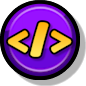
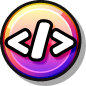
Badges by @ElBrift

diff --git a/README.md b/README.md
@@ -6,7 +6,7 @@ A mod that gives badges to Geode mod developers.
 - Comment coloring based on a user's badges
 
 ## Credits
-- [Krintop](https://gdbrowser.com/u/7242014) - Designer of the mod's textures
+- [Brift](https://gdbrowser.com/u/14114548) - Designer of the mod's textures
 - [hiimjustin000](https://gdbrowser.com/u/7466002) - Creator of the mod
 
 ## Badges

diff --git a/changelog.md b/changelog.md
@@ -1,4 +1,7 @@
 # Developer Badges Changelog
+## v1.0.2 (2024-10-28)
+- Redesigned the developer badges to be more visually appealing
+
 ## v1.0.1 (2024-10-12)
 - Added the ability to customize comment coloring based on a user's badges
 - Fixed a bug where reloading the page would add duplicate badges to a user's profile

diff --git a/about.md b/about.md
@@ -6,7 +6,7 @@ A mod that gives badges to Geode mod developers.
 - Comment coloring based on a user's badges
 
 ## Credits
-- [Krintop](user:7242014) - Designer of the mod's textures
+- [Brift](user:14114548) - Designer of the mod's textures
 - [hiimjustin000](user:7466002) - Creator of the mod
 
 ## Badges
